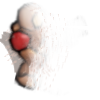
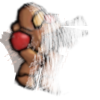
add laser death

Changed region(s): [[0.15, 0.0, 0.75, 0.96], [0.72, 0.15, 0.84, 0.24], [0.81, 0.3, 0.9, 0.36]]

diff --git a/starcraft-screensaver.py b/starcraft-screensaver.py
@@ -39,6 +39,7 @@ class ShotLaser:
         self.id = self.canvas.create_image(coords[0], coords[1], image=self.shot_laser, anchor='nw')
 
         self.x = coords[0]
+        self.y = coords[1] + 50
         self.x_end = x_end
 
         self.frame = 0
@@ -54,7 +55,13 @@ class ShotLaser:
                 self.canvas.move(self.id, 2, 0)
             else:
                 self.state = "free"
-        elif self.x_end > (self.x + 25):
+        elif self.x_end > (self.x + 25) and self.state != "dead":
+            for marine in marines:
+                if (self.x+25) in list(range(marine.coords[0], marine.coords[0]+100)) and self.y in list(range(marine.coords[1]+45, marine.coords[1]+56)):
+                    self.state = "dead"
+                    marine.state = "dead"
+                    marine.animate = marine.death_animation
+                    break
             self.x += 25
             self.canvas.move(self.id, 25, 0)
         else:
@@ -74,12 +81,13 @@ class ShotLaser:
 
 
 class Marine:
-    def __init__(self, *coords, canvas: tk.Canvas, move_images: list, shot_images: list):
+    def __init__(self, *coords, canvas: tk.Canvas, move_images: list, shot_images: list, death_images: list):
 
         self.coords = list(coords)
         self.canvas = canvas
         self.marine_move = move_images
         self.marine_shot = shot_images
+        self.marine_death = death_images
         self.id = self.canvas.create_image(coords[0], coords[1], image=self.marine_move[0], anchor='nw')
 
         self.highest_speed = 6
@@ -87,6 +95,7 @@ class Marine:
 
         self.frame = 0
         self.shot_frame = 0
+        self.death_frame = 0
 
         self.state = None
 
@@ -188,11 +197,22 @@ class Marine:
             self.state = None
             self.animate = self.move
 
-    def destroy(self):
+    def death_animation(self):
+        try:
+            frame_image = self.marine_death[self.death_frame]
+            self.canvas.itemconfig(self.id, image=frame_image)
+        except IndexError:
+            self.destroy(leave_body=True)
+            return
+
+        self.death_frame += 1
+
+    def destroy(self, leave_body=False):
         for shotlaser in objects['marines'][self.id]:
             shotlaser.destroy()
 
-        self.canvas.delete(self.id)
+        if not leave_body:
+            self.canvas.delete(self.id)
 
         marines.remove(self)
         del objects['marines'][self.id]
@@ -204,6 +224,7 @@ win.wm_attributes('-fullscreen', True)
 
 marine_move = [tk.PhotoImage(file=os.path.join('marine', f'marine{i}.png')) for i in range(1, 14)]
 marine_shot = [tk.PhotoImage(file=os.path.join('marine_shot', f'marine_shot{i}.png')) for i in range(1, 12)]
+marine_death = [tk.PhotoImage(file=os.path.join('marine_death', f'marine_death{i}.png')) for i in range(1, 13)]
 
 floor = tk.PhotoImage(file="floor.png")
 
@@ -262,7 +283,10 @@ possible_x = list(range(x_start, x_start+800))
 possible_y = list(range(y_start+50, y_end-50))
 
 for _ in range(15):
-    marine = Marine(random.choice(possible_x), random.choice(possible_y), canvas=canvas, move_images=marine_move, shot_images=marine_shot)
+    marine = Marine(random.choice(possible_x),
+                     random.choice(possible_y),
+                       canvas=canvas, move_images=marine_move,
+                         shot_images=marine_shot, death_images=marine_death)
 
     marines.append(marine)
 
@@ -270,11 +294,11 @@ for _ in range(15):
 
 win.update()
 
-channel = pygame.mixer.Channel(0)
+#channel = pygame.mixer.Channel(0)
 
-music = pygame.mixer.Sound("proshanie_slavyanki.mp3")
+#music = pygame.mixer.Sound("proshanie_slavyanki.mp3")
 
-channel.play(music)
+#channel.play(music)
 
 for rec_id in borders:
     canvas.lift(rec_id)
@@ -289,7 +313,9 @@ while True:
             marine.animate(v_move=random.choice(["up", "down", None])) # type: ignore
         elif marine.state == "shooting":
             marine.animate()
-        if marine.frame == 0 and random.choice([1, 0, 0, 0, 0, 0, 0, 0]) == 1:
+        else:
+            marine.animate()
+        if marine.frame == 0 and random.choice([1, 0, 0, 0, 0, 0, 0, 0]) == 1 and marine.state != "dead":
             marine.start_shooting()
 
     lc = 0
@@ -299,8 +325,11 @@ while True:
                 shotlaser.move()
                 lc += 1
     
-    if random.choice([1, 0, 0, 0, 0, 0, 0, 0, 0, 0, 0, 0, 0, 0, 0, 0, 0, 0, 0, 0, 0]) == 1 and len(marines):
-        marine = Marine(x_start-120, random.choice(possible_y), canvas=canvas, move_images=marine_move, shot_images=marine_shot)
+    if random.choice([1, 0, 0, 0, 0, 0, 0, 0, 0, 0]) == 1 and len(marines):
+        marine = Marine(x_start-120,
+                         random.choice(possible_y),
+                           canvas=canvas, move_images=marine_move,
+                             shot_images=marine_shot, death_images=marine_death)
 
         marines.append(marine)
 
